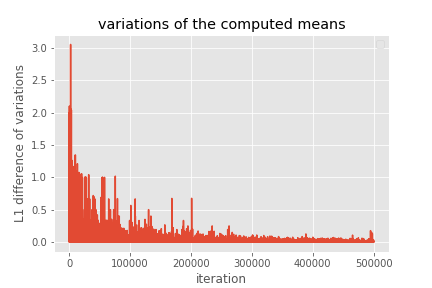
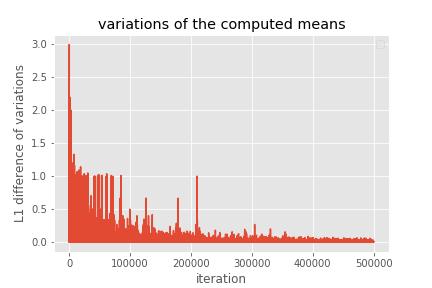
fixing MC control

diff --git a/MonteCarlo/MonteCarloControl-eGreedy/MonteCarloControl_epsilonGreedy.py b/MonteCarlo/MonteCarloControl-eGreedy/MonteCarloControl_epsilonGreedy.py
@@ -1,0 +1,187 @@
+# -*- coding: utf-8 -*-
+import gym
+import matplotlib
+import numpy as np
+import sys
+import matplotlib.pyplot as pl
+
+
+from collections import defaultdict
+
+from envs.blackjack import BlackjackEnv
+from lib import plotting
+from lib.plotting import plot_policy
+matplotlib.style.use('ggplot')
+
+
+env = BlackjackEnv()    
+
+def generate_episode(policy,env):
+    #episode = [(state,action,reward)]
+    episode=[]
+    obs=env.reset()
+    done=False
+    while not done:
+        probs = policy(state)
+        action = np.random.choice(np.arange(len(probs)), p=probs)
+        newObs,reward,done,_=env._step(action)
+        episode+=[(obs,action,reward)]
+        obs=newObs
+    return(episode)
+    
+def compute_return(episode,begin,discount_factor):
+    output=0
+    for i,transition in enumerate(episode[begin:]):
+        #print(transition[2]*(discount_factor**i))
+        output+=transition[2]*(discount_factor**i)
+    return(output)
+    
+
+def make_epsilon_greedy_policy(Q, epsilon, nA):
+    """
+    Creates an epsilon-greedy policy based on a given Q-function and epsilon.
+    
+    Args:
+        Q: A dictionary that maps from state -> action-values.
+            Each value is a numpy array of length nA (see below)
+        epsilon: The probability to select a random action . float between 0 and 1.
+        nA: Number of actions in the environment.
+    
+    Returns:
+        A function that takes the observation as an argument and returns
+        the probabilities for each action in the form of a numpy array of length nA.
+    
+    """
+    def policy_fn(observation):
+        A = np.ones(nA, dtype=float) * epsilon / nA
+        best_action = np.argmax(Q[observation])
+        A[best_action] += (1.0 - epsilon)
+        return A
+    return policy_fn
+
+
+def mc_control_epsilon_greedy(env, num_episodes, discount_factor=1.0, epsilon=0.1):
+    """
+    Monte Carlo Control using Epsilon-Greedy policies.
+    Finds an optimal epsilon-greedy policy.
+    
+    Args:
+        env: OpenAI gym environment.
+        num_episodes: Number of episodes to sample.
+        discount_factor: Gamma discount factor.
+        epsilon: Chance the sample a random action. Float betwen 0 and 1.
+    
+    Returns:
+        A tuple (Q, policy).
+        Q is a dictionary mapping state -> action values.
+        policy is a function that takes an observation as an argument and returns
+        action probabilities
+    """
+    
+    # Keeps track of sum and count of returns for each state
+    # to calculate an average. We could use an array to save all
+    # returns (like in the book) but that's memory inefficient.
+    returns_sum = defaultdict(float)
+    returns_count = defaultdict(float)
+    
+    # The final action-value function.
+    # A nested dictionary that maps state -> (action -> action-value).
+    Q = defaultdict(lambda: np.zeros(env.action_space.n))
+    
+    # The policy we're following
+    policy = make_epsilon_greedy_policy(Q, epsilon, env.action_space.n)
+    evolution=[]
+    
+    for i_episode in range(1, num_episodes + 1):
+        # Print out which episode we're on, useful for debugging.
+        if i_episode % 1000 == 0:
+            print("\rEpisode {}/{}.".format(i_episode, num_episodes), end="")
+            sys.stdout.flush()
+        delta=0
+        # Generate an episode.
+        # An episode is an array of (state, action, reward) tuples
+        episode = []
+        state = env.reset()
+        for t in range(100):
+            probs = policy(state)
+            action = np.random.choice(np.arange(len(probs)), p=probs)
+            next_state, reward, done, _ = env.step(action)
+            episode.append((state, action, reward))
+            if done:
+                break
+            state = next_state
+
+        # Find all (state, action) pairs we've visited in this episode
+        # We convert each state to a tuple so that we can use it as a dict key
+        sa_in_episode = set([(tuple(x[0]), x[1]) for x in episode])
+        for state, action in sa_in_episode:
+            sa_pair = (state, action)
+            # Find the first occurance of the (state, action) pair in the episode
+            first_occurence_idx = next(i for i,x in enumerate(episode)
+                                       if x[0] == state and x[1] == action)
+            # Sum up all rewards since the first occurance
+            G = sum([x[2]*(discount_factor**i) for i,x in enumerate(episode[first_occurence_idx:])])
+            # Calculate average return for this state over all sampled episodes
+            returns_sum[sa_pair] += G
+            returns_count[sa_pair] += 1.0
+            newMean=returns_sum[sa_pair] / returns_count[sa_pair]
+            delta+=np.abs(Q[state][action]-newMean)
+            Q[state][action] = newMean
+        evolution+=[delta]
+        # The policy is improved implicitly by changing the Q dictionar
+    
+    return (Q, policy,evolution)
+
+def plot_results(evolution,index):
+    fig=pl.figure()
+    pl.plot(evolution)
+    pl.title('variations of the computed means')
+    pl.xlabel('iteration')
+    pl.ylabel('L1 difference of variations')
+    pl.legend()
+    pl.savefig(index+'_evolutionMean.png')
+    pl.show()
+    
+#on 500K iterations
+Q, policy,evolution = mc_control_epsilon_greedy(env, num_episodes=500000, epsilon=0.1)
+# For plotting: Create value function from action-value function
+# by picking the best action at each state
+V = defaultdict(float)
+for state, actions in Q.items():
+    action_value = np.max(actions)
+    V[state] = action_value
+plotting.plot_value_function(V, title="Optimal Value Function")
+
+plot_results(evolution,'500K')
+
+plot_policy(Q,policy,'500K')
+
+
+#on 1M iterations
+Q, policy,evolution = mc_control_epsilon_greedy(env, num_episodes=1000000, epsilon=0.1)
+# For plotting: Create value function from action-value function
+# by picking the best action at each state
+V = defaultdict(float)
+for state, actions in Q.items():
+    action_value = np.max(actions)
+    V[state] = action_value
+plotting.plot_value_function(V, title="Optimal Value Function_1M")
+
+plot_results(evolution,'policy_1M')
+
+plot_policy(Q,policy,'policy_1M')
+
+
+#on 5M iterations
+Q, policy,evolution = mc_control_epsilon_greedy(env, num_episodes=5000000, epsilon=0.1)
+# For plotting: Create value function from action-value function
+# by picking the best action at each state
+V = defaultdict(float)
+for state, actions in Q.items():
+    action_value = np.max(actions)
+    V[state] = action_value
+plotting.plot_value_function(V, title="Optimal Value Function_5M")
+
+plot_results(evolution,'policy_5M')
+
+plot_policy(Q,policy,'policy_5M')
